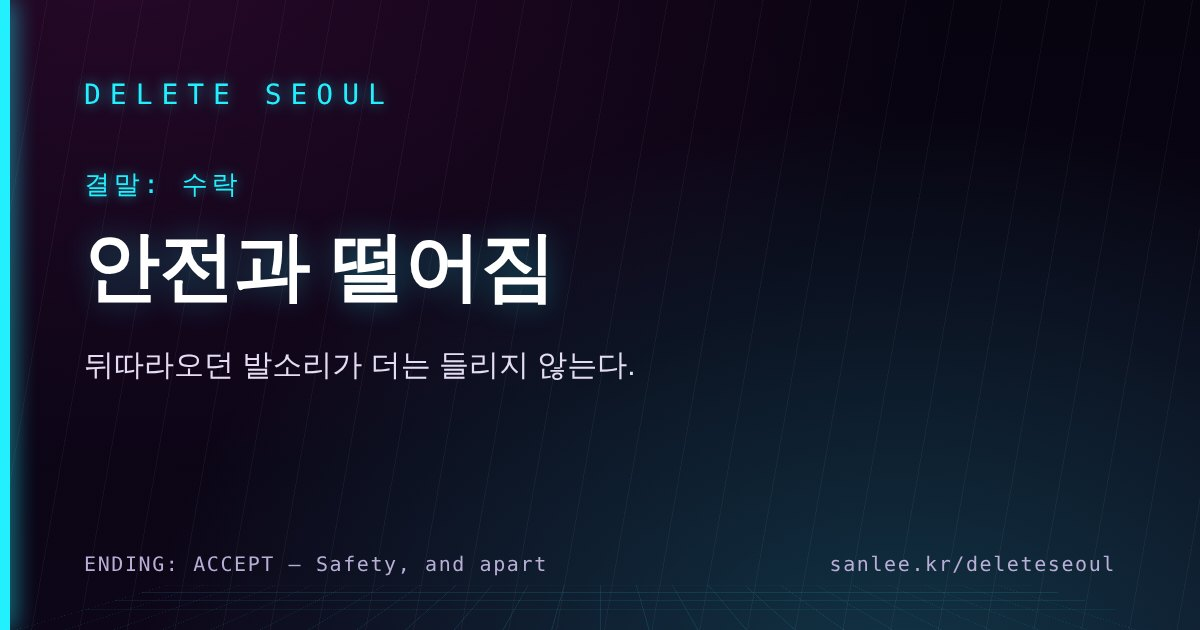
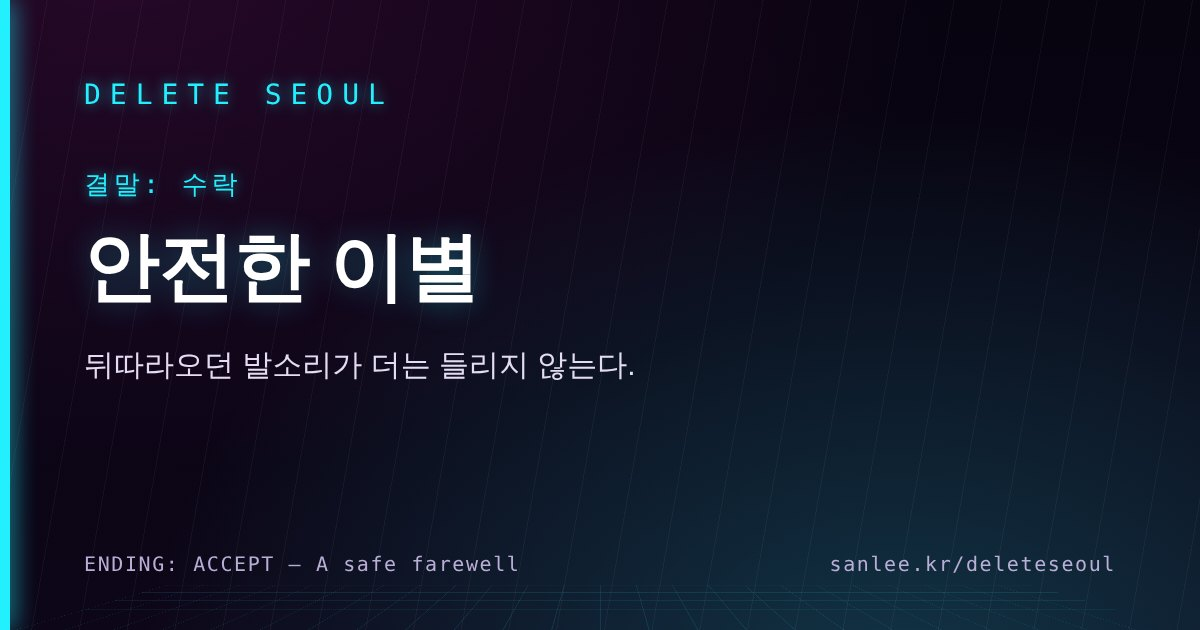
공유 카드: 수락 결말 부제를 '안전한 이별'로 맞춘다
Claude-Session: https://claude.ai/code/session_0167vhaEQ169MdButjKKvU2B

Changed region(s): [[0.185, 0.3619, 0.4625, 0.4825], [0.2467, 0.8746, 0.4625, 0.9048]]

diff --git a/src/app/deleteseoul/page.tsx b/src/app/deleteseoul/page.tsx
@@ -3,7 +3,7 @@ import ExploreClient from "@/explore/ExploreClient";
 
 // 결말 화면의 '공유하기'는 ?end=accept|reject|ghost 주소를 건넨다. 그 주소의 미리보기 카드만 결말마다 다르다 (들어오면 평소처럼 처음부터)
 const ENDS = {
-  accept: { ko: "결말: 수락 — 안전과 떨어짐", line: "뒤따라오던 발소리가 더는 들리지 않는다." },
+  accept: { ko: "결말: 수락 — 안전한 이별", line: "뒤따라오던 발소리가 더는 들리지 않는다." },
   reject: { ko: "결말: 거부 — 두 번째 정지 시민", line: "누군가 두 사람 사이에 작은 등 하나를 놓고 갔다." },
   ghost: { ko: "결말: 空 — 다음 한 걸음", line: "구름 아래에 무엇이 있었는지는 어디에도 기록되지 않았다." },
 } as const;
